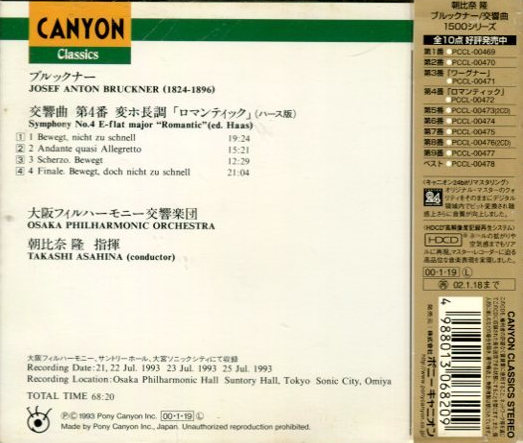
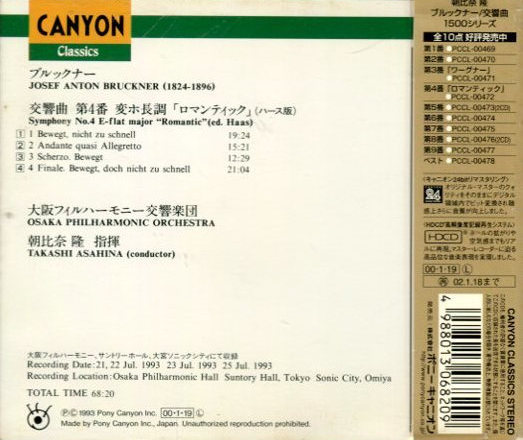
add 268, 469-471, 473-8, 519

diff --git a/index.html b/index.html
@@ -1733,6 +1733,15 @@
     <td></td>
   </tr>
   <tr>
+    <td>PCCL-00268</td>
+    <td>Bruckner: Symphony No. 9</td>
+    <td>朝比奈隆, 東京交響楽団</td>
+    <td>1995</td>
+    <td><img src="images/PCCL-00268_cover.jpg" height="150" /></td>
+    <td><img src="images/PCCL-00268_back.jpg" height="150" /></td>
+    <td>4988013605435</td>
+  </tr>
+  <tr>
     <td>PCCL-00269</td>
     <td>Prokofiev: Orchestral Suites</td>
     <td>Vladimir Fedoseyev, Moscow Radio Symphony Orchestra</td>
@@ -2921,13 +2930,94 @@
     <td></td>
   </tr>
   <tr>
+    <td>PCCL-00469</td>
+    <td>Bruckner: Symphony No. 1</td>
+    <td>朝比奈隆, 大阪フィルハーモニー交響楽団</td>
+    <td>2000</td>
+    <td><img src="images/PCCL-00469_cover.jpg" height="150" /></td>
+    <td><img src="images/PCCL-00469_back.jpg" height="150" /></td>
+    <td>4988013067806</td>
+  </tr>
+  <tr>
+    <td>PCCL-00470</td>
+    <td>Bruckner: Symphony No. 2</td>
+    <td>朝比奈隆, 大阪フィルハーモニー交響楽団</td>
+    <td>2000</td>
+    <td><img src="images/PCCL-00470_cover.jpg" height="150" /></td>
+    <td><img src="images/PCCL-00470_back.jpg" height="150" /></td>
+    <td>4988013067905</td>
+  </tr>
+  <tr>
+    <td>PCCL-00471</td>
+    <td>Bruckner: Symphony No. 3</td>
+    <td>朝比奈隆, 大阪フィルハーモニー交響楽団</td>
+    <td>2000</td>
+    <td><img src="images/PCCL-00471_cover.jpg" height="150" /></td>
+    <td><img src="images/PCCL-00471_back.jpg" height="150" /></td>
+    <td>4988013068001</td>
+  </tr>
+  <tr>
     <td>PCCL-00472</td>
     <td>Bruckner: Symphony No. 4</td>
     <td>朝比奈隆, 大阪フィルハーモニー交響楽団</td>
     <td>2000</td>
     <td><img src="images/PCCL-00472_cover.jpg" height="150" /></td>
     <td><img src="images/PCCL-00472_back.jpg" height="150" /></td>
-    <td></td>
+    <td>4988013068209</td>
+  </tr>
+  <tr>
+    <td>PCCL-00473</td>
+    <td>Bruckner: Symphony No. 5</td>
+    <td>朝比奈隆, 大阪フィルハーモニー交響楽団</td>
+    <td>2000</td>
+    <td><img src="images/PCCL-00473_cover.jpg" height="150" /></td>
+    <td><img src="images/PCCL-00473_back.jpg" height="150" /></td>
+    <td>4988013068308</td>
+  </tr>
+  <tr>
+    <td>PCCL-00474</td>
+    <td>Bruckner: Symphony No. 6</td>
+    <td>朝比奈隆, 大阪フィルハーモニー交響楽団</td>
+    <td>2000</td>
+    <td><img src="images/PCCL-00474_cover.jpg" height="150" /></td>
+    <td><img src="images/PCCL-00474_back.jpg" height="150" /></td>
+    <td>4988013068407</td>
+  </tr>
+  <tr>
+    <td>PCCL-00475</td>
+    <td>Bruckner: Symphony No. 7</td>
+    <td>朝比奈隆, 大阪フィルハーモニー交響楽団</td>
+    <td>2000</td>
+    <td><img src="images/PCCL-00475_cover.jpg" height="150" /></td>
+    <td><img src="images/PCCL-00475_back.jpg" height="150" /></td>
+    <td>4988013068506</td>
+  </tr>
+  <tr>
+    <td>PCCL-00476</td>
+    <td>Bruckner: Symphony No. 8</td>
+    <td>朝比奈隆, 大阪フィルハーモニー交響楽団</td>
+    <td>2000</td>
+    <td><img src="images/PCCL-00476_cover.jpg" height="150" /></td>
+    <td><img src="images/PCCL-00476_back.jpg" height="150" /></td>
+    <td>4988013068605</td>
+  </tr>
+  <tr>
+    <td>PCCL-00477</td>
+    <td>Bruckner: Symphony No. 9</td>
+    <td>朝比奈隆, 大阪フィルハーモニー交響楽団</td>
+    <td>2000</td>
+    <td><img src="images/PCCL-00477_cover.jpg" height="150" /></td>
+    <td><img src="images/PCCL-00477_back.jpg" height="150" /></td>
+    <td>4988013068704</td>
+  </tr>
+  <tr>
+    <td>PCCL-00478</td>
+    <td>Bruckner: The Best of Symphonies</td>
+    <td>朝比奈隆, 大阪フィルハーモニー交響楽団</td>
+    <td>2000</td>
+    <td><img src="images/PCCL-00478_cover.jpg" height="150" /></td>
+    <td><img src="images/PCCL-00478_back.jpg" height="150" /></td>
+    <td>4988013068803</td>
   </tr>
   <tr>
     <td>PCCL-00489</td>
@@ -3008,6 +3098,15 @@
     <td>2000</td>
     <td><img src="images/PCCL-00515_cover.jpg" height="150" /></td>
     <td><img src="images/PCCL-00515_back.jpg" height="150" /></td>
+    <td></td>
+  </tr>
+  <tr>
+    <td>PCCL-00519</td>
+    <td>Bruckner: Symphony No. 9</td>
+    <td>朝比奈隆, 東京交響楽団</td>
+    <td>2001</td>
+    <td><img src="images/PCCL-00519_cover.jpg" height="150" /></td>
+    <td><img src="images/PCCL-00519_back.jpg" height="150" /></td>
     <td></td>
   </tr>
   <tr>
